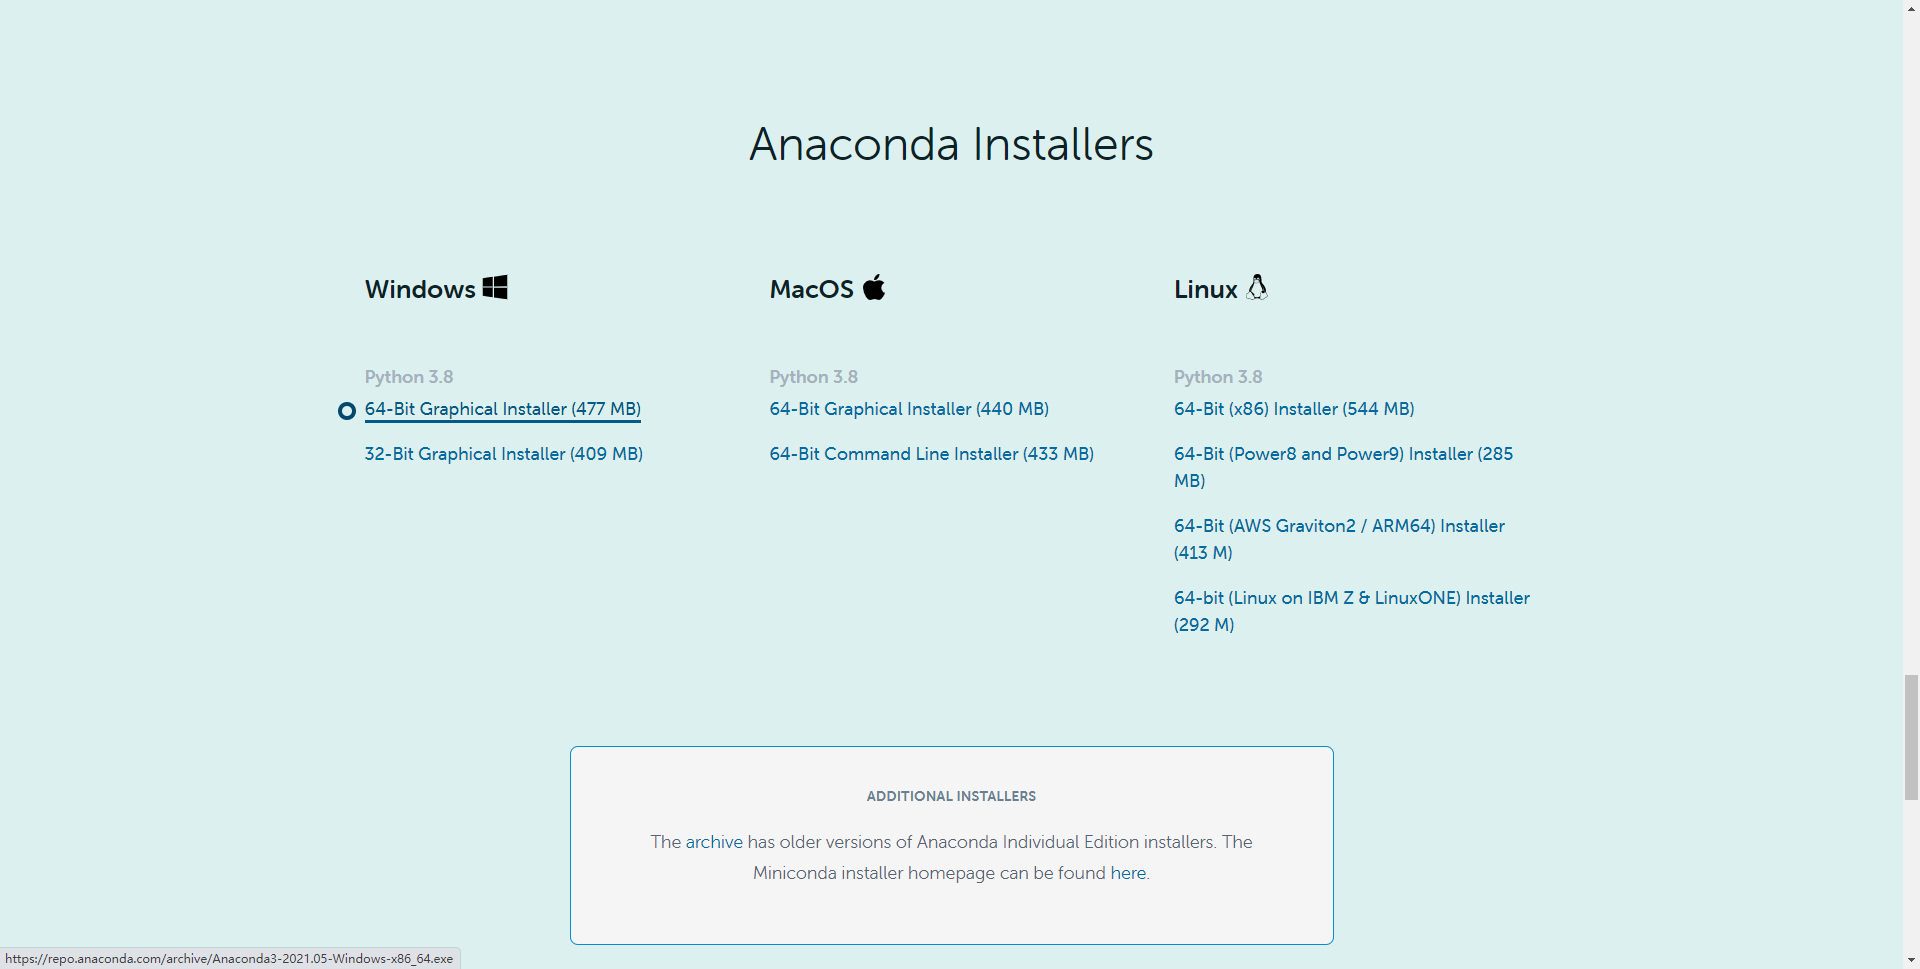
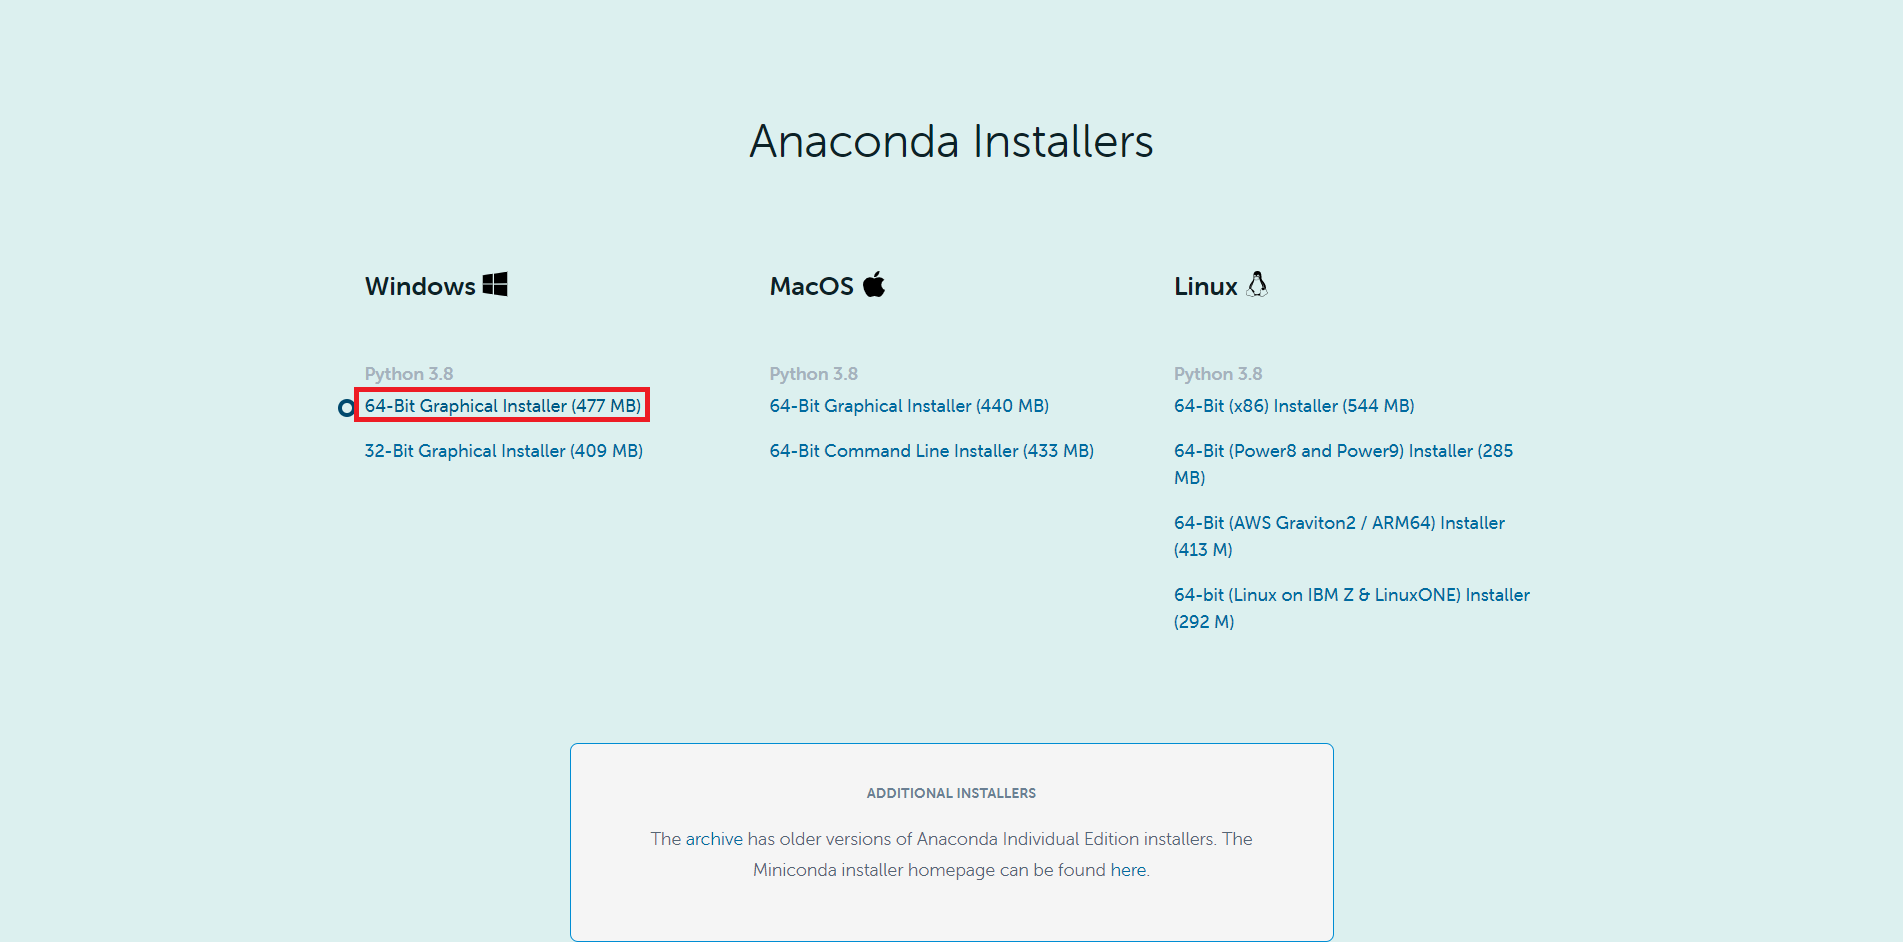
sublime

diff --git a/README.md b/README.md
@@ -12,17 +12,17 @@
 
 ### 安装Anaconda
 
-我们通过安装Anaconda来搭建Python环境。Anaconda是当前最流行的Python发行版本，其中包含了Python和许多常用工具包及其依赖，还提供了conda、pip等工具用于环境和包管理，十分方便。我们可以在[这里](https://www.anaconda.com/products/individual#Downloads)下载最新的安装包，建议下载Windows 64版本，如下图所示。
+我们通过安装Anaconda来搭建Python环境。Anaconda是当前最流行的Python发行版本，其中包含了Python和许多常用工具包及其依赖，还提供了conda、pip等工具用于环境和包管理，十分方便。我们可以在[这里](https://www.anaconda.com/products/individual#Downloads)下载最新的安装包，建议下载Windows 64 bit版本安装包，如下图所示：
 
 ![anaconda](https://raw.githubusercontent.com/ShuaiGuo95/formi_python/master/images/anaconda.png)
 
-安装完成后，按下Windows键，找到Anaconda3 (64-bit) 文件夹，然后打开Anaconda Powershell Prompt (Anaconda3)，输入
+安装完成后，按下Windows键，找到Anaconda3 (64-bit) 文件夹，然后打开Anaconda Powershell Prompt (Anaconda3)，输入Python：
 
 ```shell
-python
+(base) PS C:\Users\15617> python
 ```
 
-然后按下回车，看到类似如下输出即可表明Anaconda安装成功。
+然后按下回车，看到类似如下输出即可表明Anaconda安装成功：
 
 ```shell
 (base) PS C:\Users\15617> python
@@ -31,3 +31,10 @@ Type "help", "copyright", "credits" or "license" for more information.
 >>>
 ```
 
+### 安装Sublime Text 3
+
+安装完了Python环境，我们现在需要一个编辑器来写Python代码，这里推荐的是Sublime Text 3，也是为师最喜欢的代码和文本编辑器，特点是简洁轻便美观并且免费。唯一缺点是偶尔会弹出来购买提示框，按Esc忽略即可。如下图，可以在[这里](https://www.sublimetext.com/3)下载Windows 64 bit版本安装包。
+
+![anaconda](https://raw.githubusercontent.com/ShuaiGuo95/formi_python/master/images/sublime.png)
+
+安装还是建议安装在D盘，安装完成后在桌面上会出现Sublime Text 3的图标，打开即可使用。
